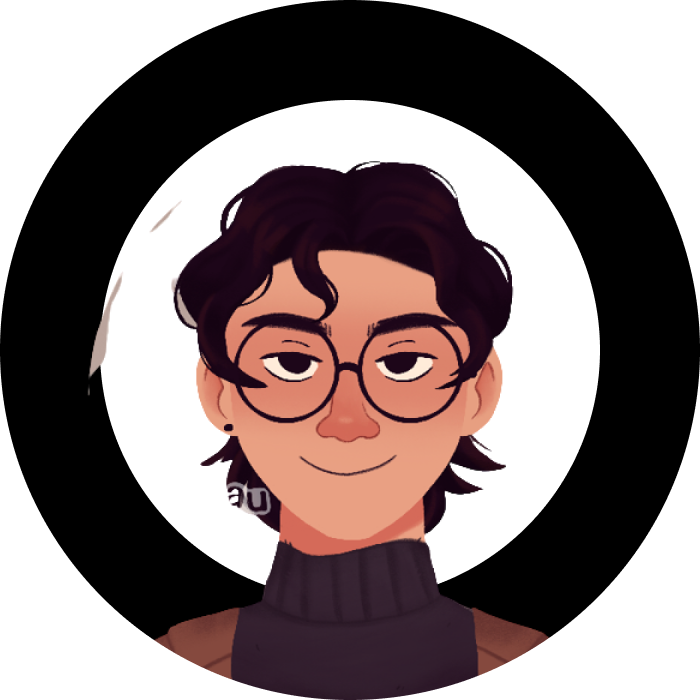
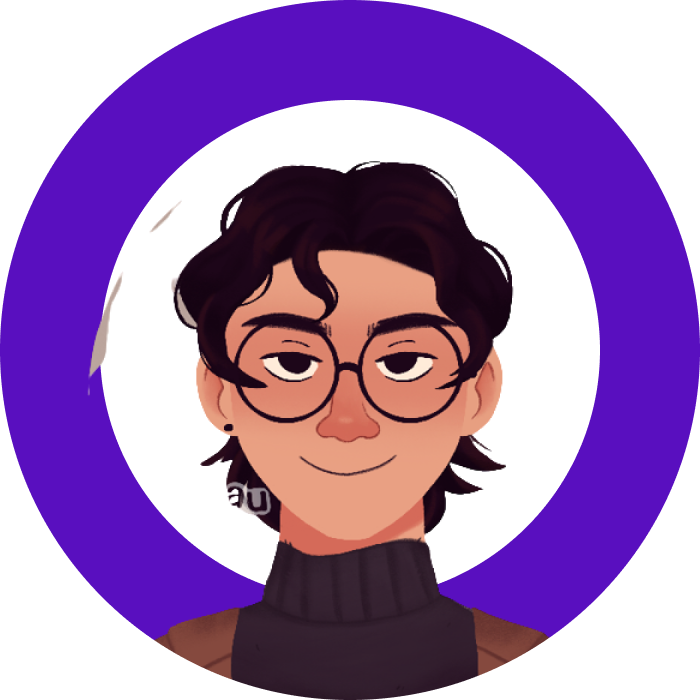
Alteração Header

diff --git a/src/components/projects/index.jsx b/src/components/projects/index.jsx
@@ -2,27 +2,26 @@ import React from 'react';
 import TaskGer from './images/ger3.png'
 import  Clone  from './images/clone_3.png'
 import * as C from './projectStyled'
+import AOS from 'aos';
+import 'aos/dist/aos.css';
 
 export const Projects = () => {
+    AOS.init();
     return (  
         <C.Main>
-            <C.Title id='projects'>Projetos</C.Title>
+            <C.Title id='projects'  data-aos="fade-down" data-aos-duration='700' >Projetos</C.Title>
             <C.AreaProject>
-                <C.SideProject>
-                    <C.Project>
-                        <C.Image1 src={Clone} alt="" />
-                        <C.TitleProject>NetFilmes</C.TitleProject>
-                        <C.InfoProject>Nesse projeto, foi criado um clone do menu de filmes da Netflix, onde foi consumida a API do TMDB(The Movie Database), pude aprender muito na parte de requisições, é como usar os dados obtidos dela, além de usar o Styled Components, que nunca havia utilizado, as tecnologias usadas foram HTML, CSS, JavaScript, Styled Components e React  </C.InfoProject>
-                    </C.Project>
-                </C.SideProject>
+                <C.Project data-aos="fade-right" data-aos-duration='700' >
+                    <C.Image1 src={Clone} alt="" />
+                    <C.TitleProject>NetFilmes</C.TitleProject>
+                    <C.InfoProject>Nesse projeto, foi criado um clone do menu de filmes da Netflix, onde foi consumida a API do TMDB(The Movie Database), pude aprender muito na parte de requisições, é como usar os dados obtidos dela, além de usar o Styled Components, que nunca havia utilizado, as tecnologias usadas foram HTML, CSS, JavaScript, Styled Components e React  </C.InfoProject>
+                </C.Project>
 
-                <C.SideProject>
-                    <C.Project>
-                        <C.Image2 src={TaskGer}/>
-                        <C.TitleProject>Gerenciador de Tarefas</C.TitleProject>
-                        <C.InfoProject>No projeto de gerenciador de tarefas foi usado o Styled Components, junto do React, além de hooks, como o useState e useEffect, foi feito uma requisição a API do JsonPlaceholder, é usado o React-Router, para ir ao sobre de cada tarefa.</C.InfoProject>
-                    </C.Project>
-                </C.SideProject>
+                <C.Project data-aos="fade-left" data-aos-duration='700' >
+                    <C.Image2 src={TaskGer}/>
+                    <C.TitleProject>Gerenciador de Tarefas</C.TitleProject>
+                    <C.InfoProject>No projeto de gerenciador de tarefas foi usado o Styled Components, junto do React, além de hooks, como o useState e useEffect, foi feito uma requisição a API do JsonPlaceholder, é usado o React-Router, para ir ao sobre de cada tarefa.</C.InfoProject>
+                </C.Project>
             </C.AreaProject>
             <p style={{textAlign: 'center'}}><C.LinkGit target={'_blank'} href="https://github.com/Marlon-Correia?tab=repositories">Repositório GitHub</C.LinkGit></p>
         </C.Main>

diff --git a/src/components/header/index.jsx b/src/components/header/index.jsx
@@ -1,39 +1,41 @@
 import React, { useContext } from 'react';
-import {ThemeContextt} from '../../contexts/theme.jsx';
 import * as C from './headerStyled.js'
-import Switch from 'react-switch';
-import { ThemeContext } from 'styled-components';
 import Photo from './images/photo.png';
+import AOS from 'aos';
+import 'aos/dist/aos.css';
 
 export const Cabecalho = () => {
-    const { switchTheme } = useContext(ThemeContextt)
-    const { secundary, info } = useContext(ThemeContext)
-
+    AOS.init();
     return (  
+        <>
             <C.Header>
                 <C.AreaNav>
-                            <C.ItemNav href='#about'>About me</C.ItemNav>
-                            <C.ItemNav href='#projects' >Projects</C.ItemNav>
-                            <C.ItemNav href='#skills'>Skills</C.ItemNav>
-                            <C.ItemNav href='#contact'>Contact</C.ItemNav>
+                            <C.ItemNav data-aos="fade-right" data-aos-duration='700'  href='#about'>About me</C.ItemNav>
+                            <C.ItemNav data-aos="fade-right" data-aos-duration='700'  href='#projects' >Projects</C.ItemNav>
+                            <C.ItemNav data-aos="fade-right" data-aos-duration='700'  href='#skills'>Skills</C.ItemNav>
+                            <C.ItemNav data-aos="fade-right" data-aos-duration='700'  href='#contact'>Contact</C.ItemNav>
                     </C.AreaNav>
                 <C.LeftSide>
-                    <C.AreaName>
+                    <C.AreaName data-aos="fade-right" data-aos-duration='700' >
                         <C.LeftJob>Hello, i'm</C.LeftJob>
-                        <C.LeftName>Marlon Correia</C.LeftName>
+                        <C.LeftName>Marlon Correia.</C.LeftName>
                         <C.LeftJob>Front-End Developer</C.LeftJob>
                     </C.AreaName>
-                    <C.AreaButton>
-                        <C.Button href='#contact'>Linkedln</C.Button>
-                        <C.Button href='#contact'>GitHub</C.Button>
+                    <C.AreaButton data-aos="fade-right" data-aos-duration='700' >
+                        <C.Button target='_blank' href='https://www.linkedin.com/in/marlon-correia32/'>Linkedln</C.Button>
+                        <C.Button target='_blank' href='https://github.com/Marlon-Correia'>GitHub</C.Button>
                     </C.AreaButton>
                 </C.LeftSide>
 
                 <C.RightSide>
-                    <C.AreaPhoto>
+                    <C.AreaPhoto data-aos="fade-down" data-aos-duration="1500">
                         <C.Image src={Photo} alt="foto" />
                     </C.AreaPhoto>
                 </C.RightSide>
             </C.Header>
+            <C.GifArea>
+                <C.Gif> </C.Gif>
+            </C.GifArea>
+        </>
     );
 }

diff --git a/src/components/header/headerStyled.js b/src/components/header/headerStyled.js
@@ -11,10 +11,11 @@ export const LeftSide = styled.div`
     color: ${( {theme} ) => theme.color};
     background-color: ${( {theme} ) => theme.primary};
     width: 60%;
-    height: 80vh;
+    height: 90vh;
     display: flex;
     flex-direction: column;
     justify-content: center;
+    align-items: center;
     @media (max-width: 768px){
         width: 92%;
         justify-content: flex-start;
@@ -49,6 +50,7 @@ export const LeftAbout = styled.div`
     margin-bottom: 30px;
 `;
 export const AreaButton = styled.div`
+    margin-top: 20px;
 `;
 
 export const Button = styled.a`
@@ -64,7 +66,7 @@ export const Button = styled.a`
     transition: all ease 0.5s;
     &:hover{
         background-color: #590fbf;
-        color: #000;
+        color: #fff;
     }
     @media (min-width: 300px) and (max-width: 425px){
         padding: 8px 20px;
@@ -76,20 +78,19 @@ export const Button = styled.a`
 export const RightSide = styled.div`
 background-color: ${( {theme} ) => theme.primary};
     width: 40%;
-    height: 80vh;
+    height: 90vh;
     display: flex;
     align-items: center;
     `;
 export const AreaNav = styled.div`
     width: 100%;
-    height: 60px;
-    margin: 0 auto;
+    height: 50px;
     position: fixed;
-    padding-right: 50px;
     display: flex;
     justify-content: flex-end;
     align-items: center;
     background-color: #590fbf;
+    z-index: 10;
 `;
 export const AreaPhoto = styled.div`
     padding-left: 45px;
@@ -102,12 +103,13 @@ export const ItemNav = styled.a`
     display: none;
     color: ${( {theme} ) => theme.color};
     text-decoration: none;
-    margin: 0 20px;
+    margin-right:40px;
     font-size: 20px;
-    transition: all ease 0.5s;
+    transition: all ease .8s;
     cursor: pointer;
+    color: #fff;
     &:hover{
-        color: ${( {theme} ) => theme.secundary};
+        color: #000;
     }
     @media (min-width: 768px){
         display: inline-block;
@@ -135,3 +137,14 @@ export const Img = styled.div`
     margin-top: 50px;
     margin-left: -20px;
 `;
+export const GifArea = styled.div`
+
+`;
+export const Gif = styled.div`
+    background-image = url(https://pa1.narvii.com/6539/f47caf2747194bc8eaa08661e9241673e3dab3b6_hq.gif)
+    width: 100%;
+    height: 200px;
+    background-repeat: no-repeat;
+    position: absolute;
+    
+    `;

diff --git a/src/components/skills/index.jsx b/src/components/skills/index.jsx
@@ -6,12 +6,15 @@ import { SiTypescript } from "react-icons/si";
 import { GrReactjs } from "react-icons/gr";
 import { TbBrandSass } from "react-icons/tb";
 import * as C from './skillsStyled'
+import AOS from 'aos';
+import 'aos/dist/aos.css';
 
 export const Skills = () => {
+    AOS.init();
     return (  
         <C.Aside>
             <C.Title id='skills'>Skills</C.Title>
-            <C.SkillsLine>
+            <C.SkillsLine  data-aos="fade-right" data-aos-duration='700' >
                 <C.SkillsInfo>
                     <DiHtml5 style={{color: '#e34c26', cursor:'pointer'}} size='100px' />
                     <h3>HTML</h3>
@@ -28,7 +31,7 @@ export const Skills = () => {
                     <C.SkillsAbout>Estudei Sass a alguns meses, porém o usei muito em prática, sei os conceitos básicos.</C.SkillsAbout>
                 </C.SkillsInfo>
             </C.SkillsLine>
-            <C.SkillsLine>
+            <C.SkillsLine data-aos="fade-right" data-aos-duration='700' >
                 <C.SkillsInfo>
                     <DiJavascript style={{color: '#f0db4f', cursor:'pointer'}} size='100px' />
                     <h3>JavaScript</h3>

diff --git a/src/components/projects/projectStyled.js b/src/components/projects/projectStyled.js
@@ -4,6 +4,7 @@ export const Main = styled.main`
     background-color: ${( {theme} ) => theme.primary};
     color: ${( {theme} ) => theme.color};
     padding-bottom: 20px;
+    width: 100%;
 `;
 export const Title = styled.h1`
     padding-top: 40px;
@@ -16,22 +17,15 @@ export const Title = styled.h1`
 `;
 export const AreaProject = styled.div`
     margin-top: 25px;
-    display: flex;
+    display: grid;
+    grid-template-columns: repeat(2, 1fr);
     margin-bottom: 50px;
+    overflow: hidden;
     @media(max-width: 805px){
-        flex-direction: column;
-        align-items: center;
-        margin-bottom: 2px;
+        grid-template-columns: 1fr;
+        
     }
     
-`;
-export const SideProject = styled.div`
-    width: 50%;
-    text-align: center;
-    margin-bottom: 10px;
-    @media(max-width: 805px){
-        width: 80%;
-    }
 `;
 export const Project = styled.div`
     display: flex;

diff --git a/src/components/about/index.jsx b/src/components/about/index.jsx
@@ -1,16 +1,19 @@
 import React from 'react';
 import * as C from './aboutStyled';
 import eu from './images/foto_foda.jpg'
+import AOS from 'aos';
+import 'aos/dist/aos.css';
 
 export const AboutMe = () => {
+    AOS.init();
     return (  
         <C.Container id='about'>
             <C.AreaAbout>
-                <C.LeftSide>
+                <C.LeftSide data-aos="fade-right" data-aos-duration='700'>
                     <C.Image src={eu} />
                 </C.LeftSide>
 
-                <C.RightSide>
+                <C.RightSide data-aos="fade-right" data-aos-duration='700'>
                     <C.Title>
                         Sobre mim
                     </C.Title>
